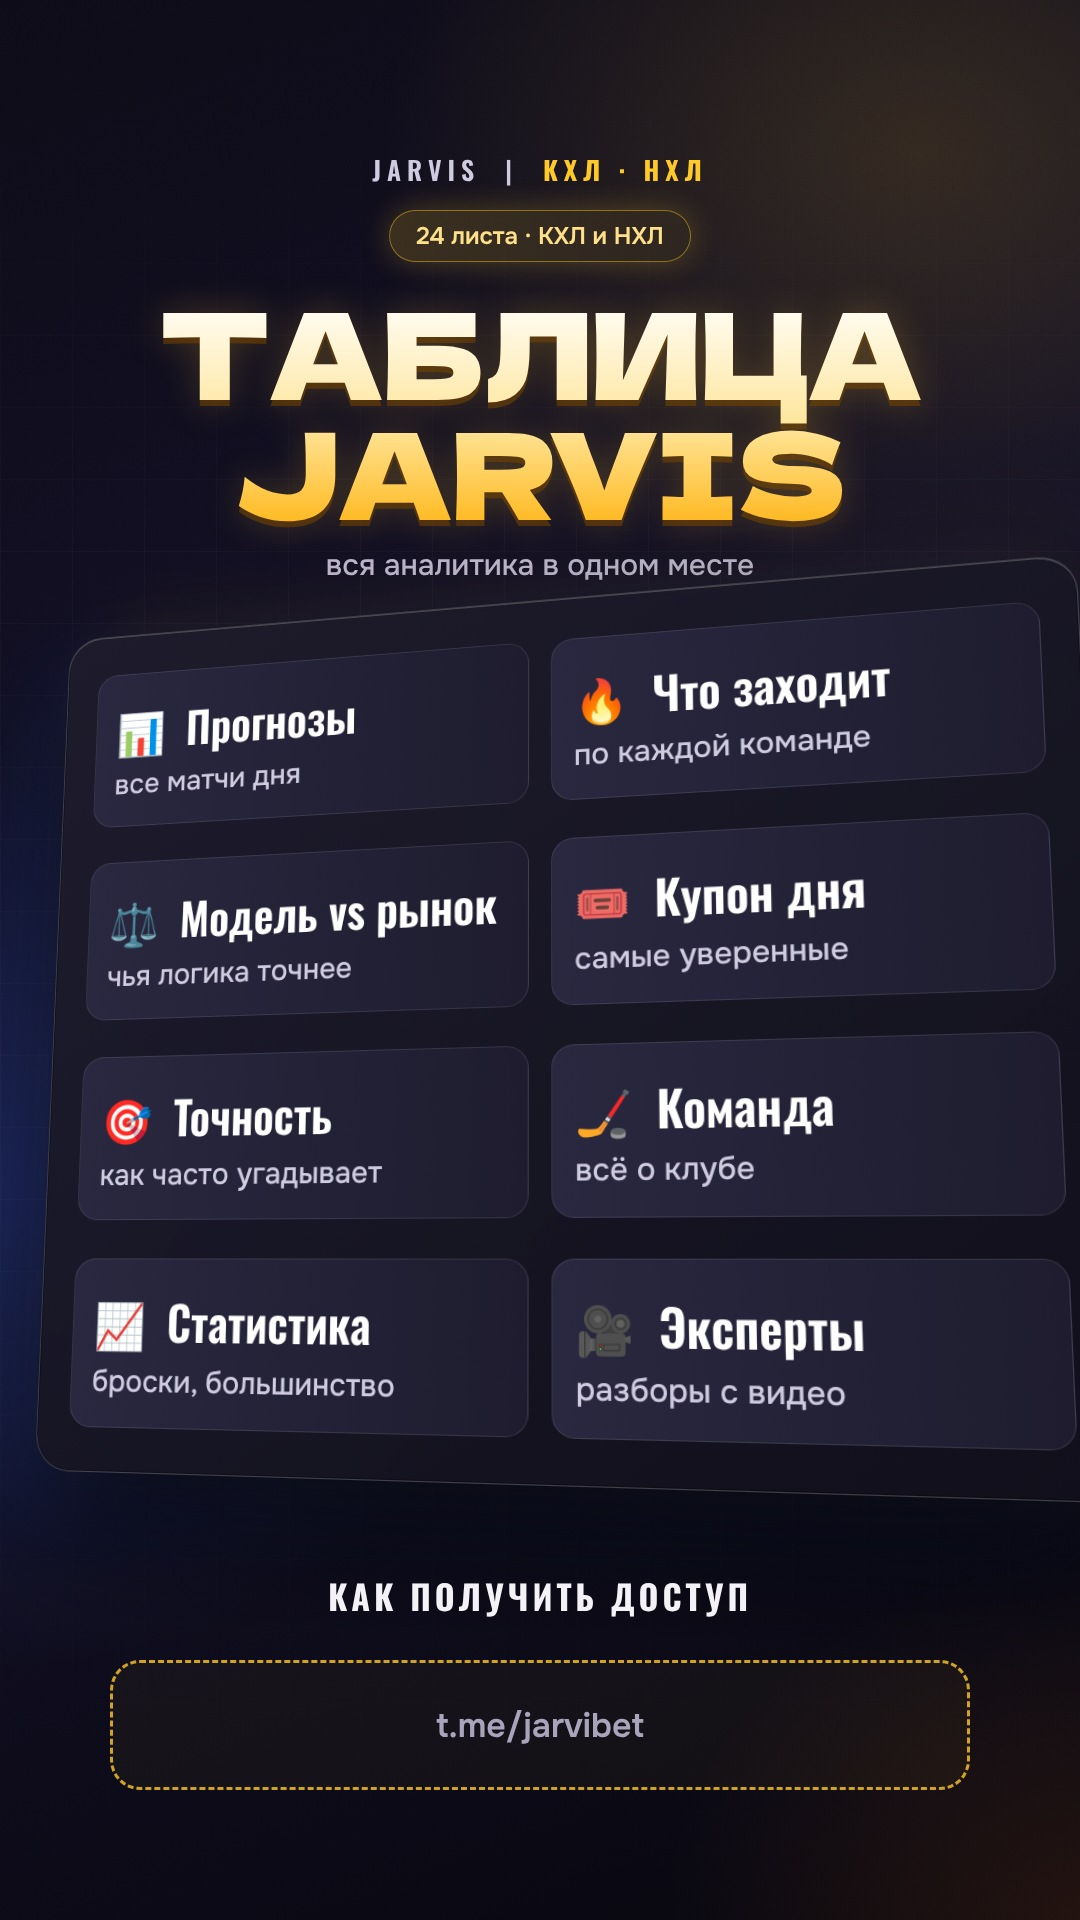
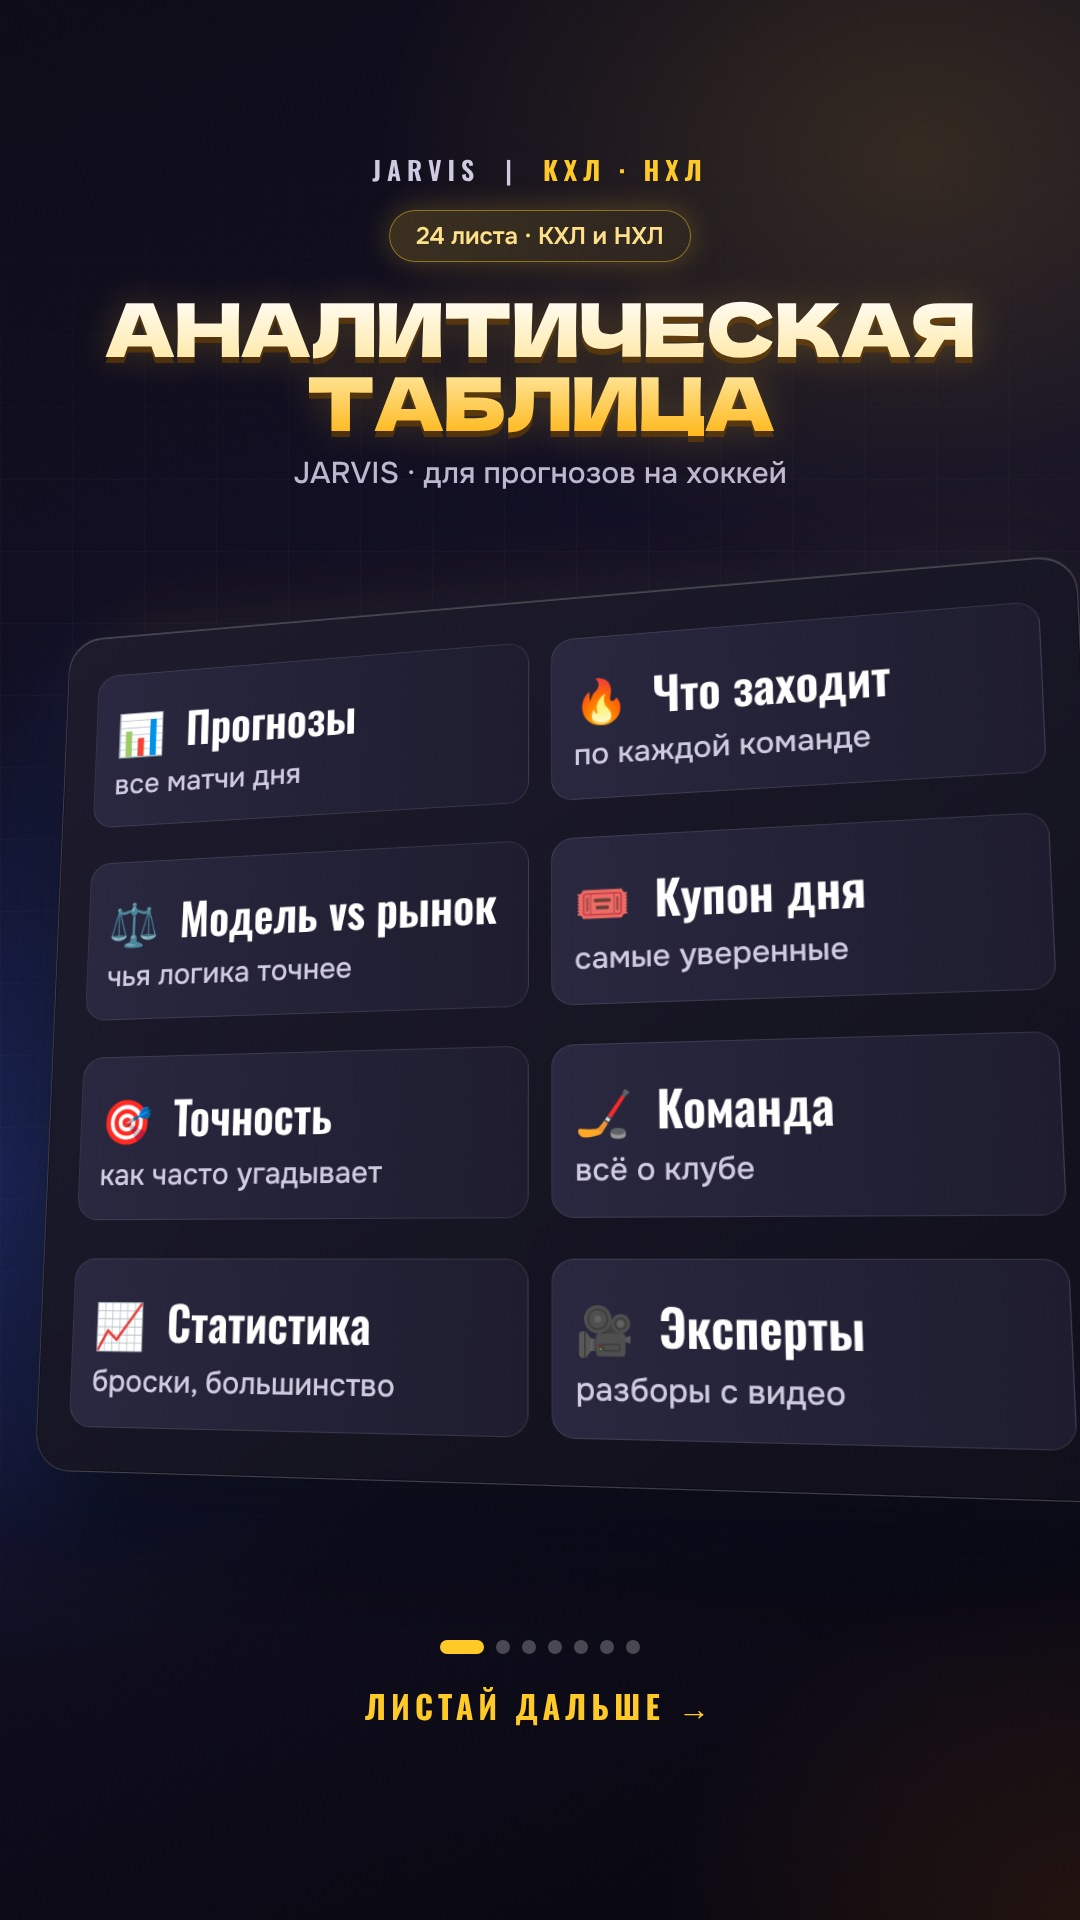
Хайлайт «Таблица» v4: 7 кадров, доступ через директ

Changed region(s): [[0.0917, 0.1562, 0.9167, 0.3125], [0.3056, 0.8125, 0.7028, 0.9062], [0.0917, 0.875, 0.1222, 0.9375]]

diff --git a/team/out/2026-10-27/shot.js b/team/out/2026-10-27/shot.js
@@ -1,2 +1,2 @@
 const {chromium}=require('playwright');(async()=>{const b=await chromium.launch();const p=await b.newPage({viewport:{width:1080,height:1920}});
-for(let i=1;i<=6;i++){await p.goto('file://'+process.argv[2]+'/table_'+i+'.html');await p.waitForTimeout(500);await p.screenshot({path:process.argv[2]+'/table_'+i+'.jpg',type:'jpeg',quality:93});}await b.close();})();
+for(let i=1;i<=7;i++){await p.goto('file://'+process.argv[2]+'/table_'+i+'.html');await p.waitForTimeout(500);await p.screenshot({path:process.argv[2]+'/table_'+i+'.jpg',type:'jpeg',quality:93});}await b.close();})();
